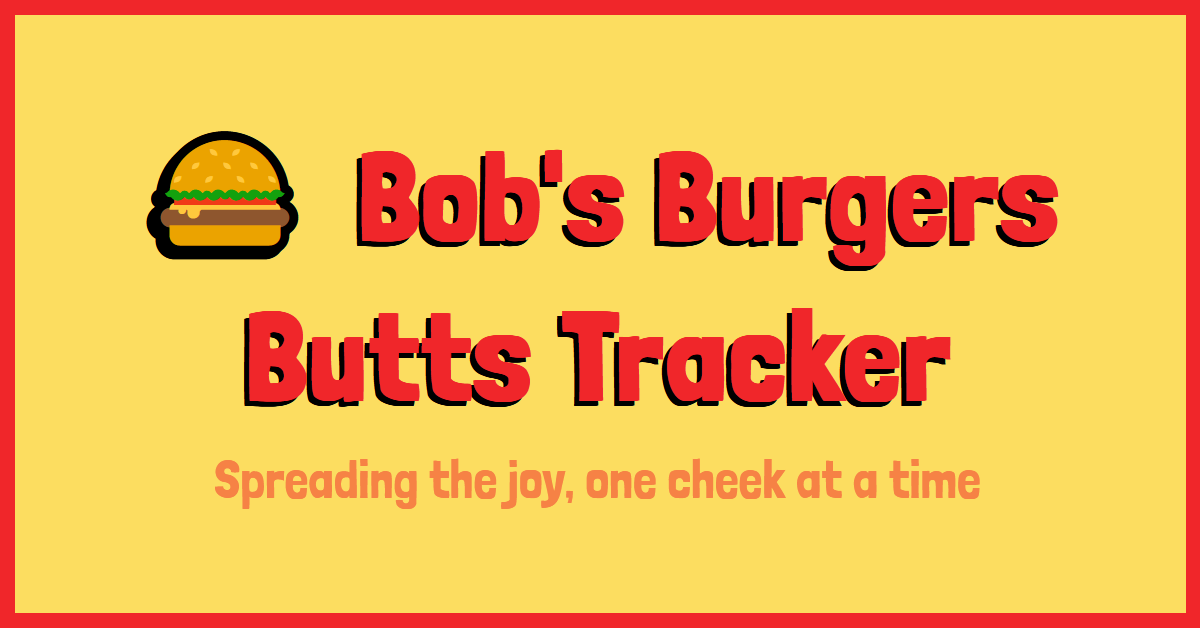
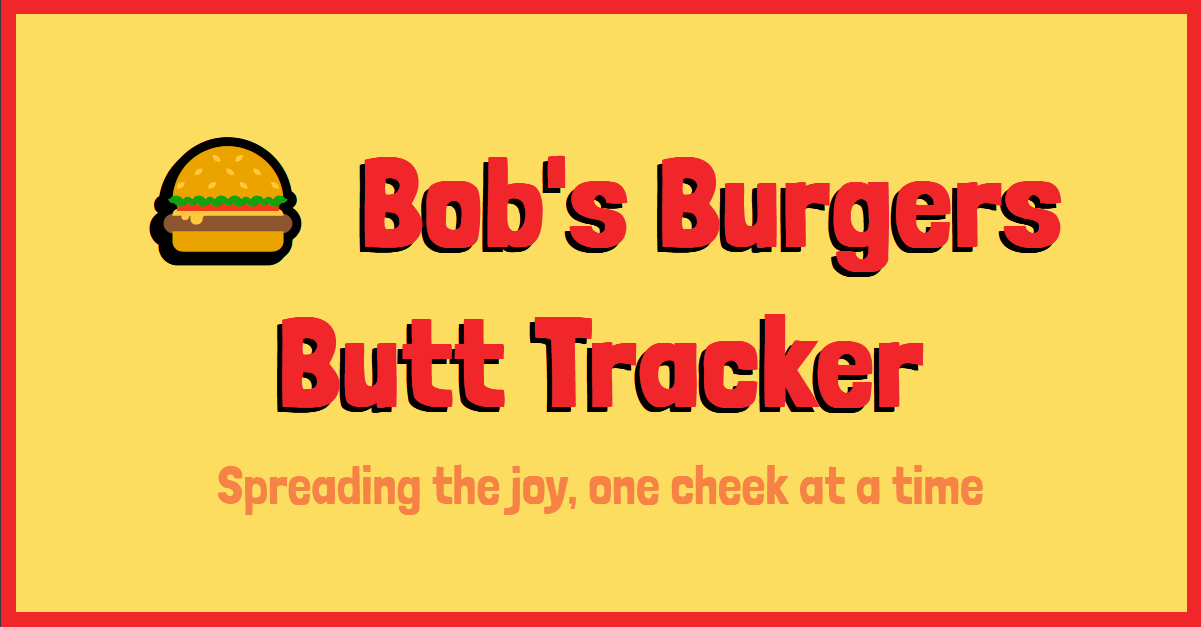
more title changes

diff --git a/_includes/head.html b/_includes/head.html
@@ -1,13 +1,25 @@
 <head>
   <meta charset="UTF-8" />
   <meta name="viewport" content="width=device-width, initial-scale=1.0" />
+  <!-- Primary Meta Tags -->
+  <title>{{site.title}} | {{site.tagline}}</title>
+  <meta name="author" content="{{site.author.name}}" />
+  <meta name="image" property="og:image" content="{{site.banner}}" />
+  <meta name="title" content="{{site.title}} | {{site.tagline}}" />
+  <meta name="description" content="{{site.description}}" />
 
-  <title>
-    {% if page.title == "Home" %} {{ site.title }}{% if site.tagline %} &middot;
-    {{ site.tagline }}{% endif %} {% else %} {{ page.title }} &middot; {{
-    site.title }} {% endif %}
-  </title>
+  <!-- Open Graph / Facebook -->
+  <meta property="og:type" content="website" />
+  <meta property="og:url" content="https://bobsburgersbutts.lol/" />
+  <meta property="og:title" content="{{site.title}} | {{site.tagline}}" />
+  <meta property="og:description" content="{{site.description}}" />
 
+  <!-- Twitter -->
+  <meta property="twitter:card" content="summary_large_image" />
+  <meta property="twitter:url" content="https://bobsburgersbutts.lol/" />
+  <meta property="twitter:title" content="{{site.title}} | {{site.tagline}}" />
+  <meta property="twitter:description" content="{{site.description}}" />
+  <meta property="twitter:image" content="{{site.banner}}" />
   <!-- FartScroll JS, thanks to The Onion-->
   <script src="assets/fartscroll.js"></script>
 
@@ -48,43 +60,5 @@
     type="application/atom+xml"
     title="{{ site.title }}"
     href="{{ 'atom.xml' | relative_url }}"
-  />
-
-  <!-- Primary Meta Tags -->
-  <title>
-    Bob's Burgers Butt Tracker | Spreading the joy, one cheek at a time
-  </title>
-  <meta name="author" content="{{site.author.name}}" />
-  <meta
-    name="image"
-    property="og:image"
-    content="https://bobsburgersbutts.lol/assets/share-banner.png"
-  />
-  <meta
-    name="title"
-    content="Bob's Burgers Butt Tracker | Spreading the joy, one cheek at a time"
-  />
-  <meta name="description" content="{{site.description}}" />
-
-  <!-- Open Graph / Facebook -->
-  <meta property="og:type" content="website" />
-  <meta property="og:url" content="https://bobsburgersbutts.lol/" />
-  <meta
-    property="og:title"
-    content="Bob's Burgers Butt Tracker | Spreading the joy, one cheek at a time"
-  />
-  <meta property="og:description" content="{{site.description}}" />
-
-  <!-- Twitter -->
-  <meta property="twitter:card" content="summary_large_image" />
-  <meta property="twitter:url" content="https://bobsburgersbutts.lol/" />
-  <meta
-    property="twitter:title"
-    content="Bob's Burgers Butt Tracker | Spreading the joy, one cheek at a time"
-  />
-  <meta property="twitter:description" content="{{site.description}}" />
-  <meta
-    property="twitter:image"
-    content="https://bobsburgersbutts.lol/assets/share-banner.png"
   />
 </head>
